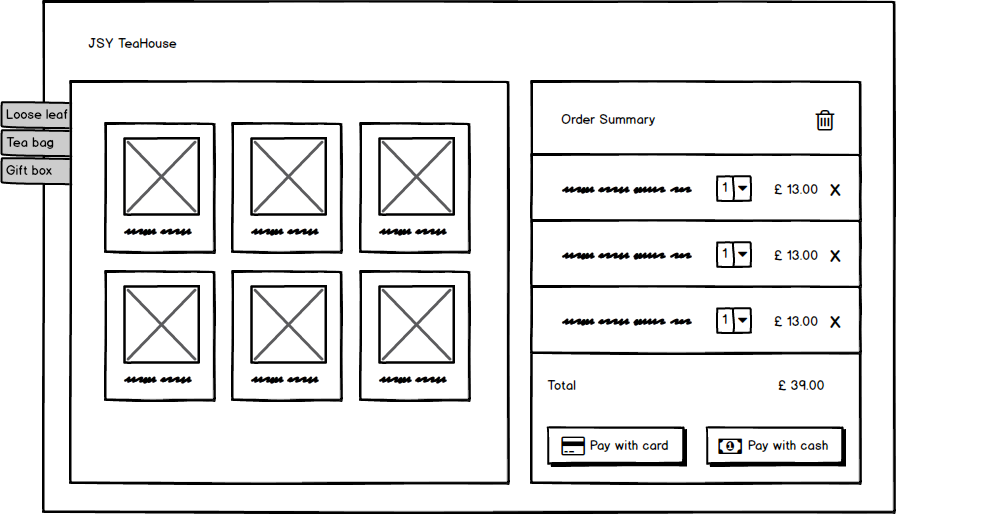
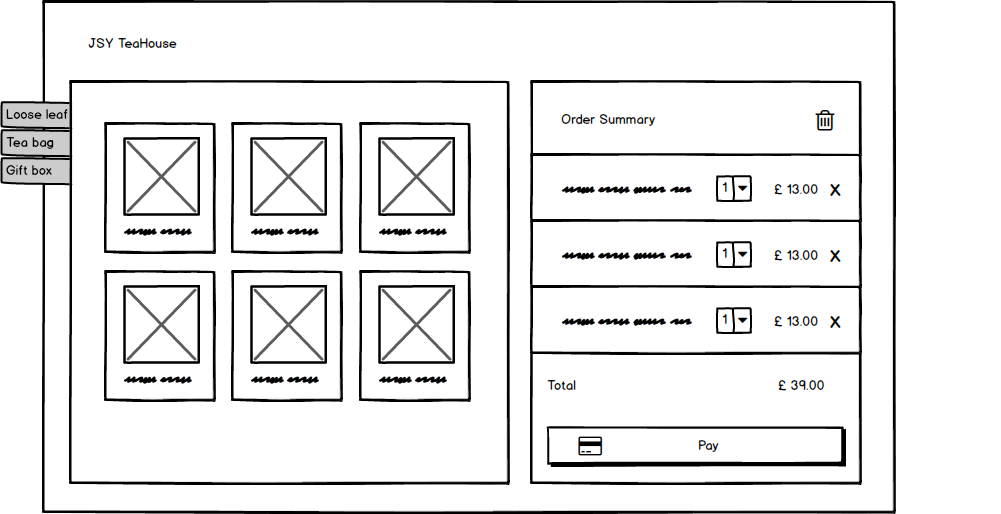
created menu_list+order_list

Changed region(s): [[0.5574, 0.8093, 0.8362, 0.9339]]

diff --git a/index.html b/index.html
@@ -4,21 +4,143 @@
 <head>
 	<meta charset="UTF-8">
 	<meta name="viewport" content="width=device-width, initial-scale=1.0">
-	<title>Document</title>
+	<title>JSY teahouse order system</title>
+	<script src="https://kit.fontawesome.com/e8a278aa48.js" crossorigin="anonymous"></script>
+	<link href="reset.css" rel="stylesheet">
+	<link href="style.css" rel="stylesheet">
 
 </head>
 
 <body>
 
 
-	<div>
-		<ul>
-			<li>Si Ji Chun</li>
+	<div class="wrapper">
+
+		<header class="header">
+			JSY TEAHOUSE
+		</header>
+
+		<div class="menu_container">
 
 
-		</ul>
+			<main class="menu_area">
 
 
+				<nav class="menu_nav">
+
+					<ul>
+						<li>Loose leaf</li>
+						<li>Tea bag</li>
+						<li>Gift Set</li>
+					</ul>
+
+
+				</nav>
+
+				<ul class="menu_list">
+					<li><img
+							src="https://shoplineimg.com/5cee0a99c4efc60001a5fe6b/5d6244e1622a563c02a2b3fd/800x.webp?source_format=png">
+						<span class="prod_name">Si Ji Chun</span><span class="prod_price">17.00</span></li>
+					<li><img
+							src="https://shoplineimg.com/5cee0a99c4efc60001a5fe6b/5d6244e1622a563c02a2b3fd/800x.webp?source_format=png">
+						<span class="prod_name">Si Ji Chun</span><span class="prod_price">17.00</span></li>
+					<li><img
+							src="https://shoplineimg.com/5cee0a99c4efc60001a5fe6b/5d6244e1622a563c02a2b3fd/800x.webp?source_format=png">
+						<span class="prod_name">Si Ji Chun</span><span class="prod_price">17.00</span></li>
+					<li><img
+							src="https://shoplineimg.com/5cee0a99c4efc60001a5fe6b/5d6244e1622a563c02a2b3fd/800x.webp?source_format=png">
+						<span class="prod_name">Si Ji Chun</span><span class="prod_price">17.00</span></li>
+					<li><img
+							src="https://shoplineimg.com/5cee0a99c4efc60001a5fe6b/5d6244e1622a563c02a2b3fd/800x.webp?source_format=png">
+						<span class="prod_name">Si Ji Chun</span><span class="prod_price">17.00</span></li>
+					<li><img
+							src="https://shoplineimg.com/5cee0a99c4efc60001a5fe6b/5d6244e1622a563c02a2b3fd/800x.webp?source_format=png">
+						<span class="prod_name">Si Ji Chun</span><span class="prod_price">17.00</span></li>
+					<li><img
+							src="https://shoplineimg.com/5cee0a99c4efc60001a5fe6b/5d6244e1622a563c02a2b3fd/800x.webp?source_format=png">
+						<span class="prod_name">Si Ji Chun</span><span class="prod_price">17.00</span></li>
+					<li><img
+							src="https://shoplineimg.com/5cee0a99c4efc60001a5fe6b/5d6244e1622a563c02a2b3fd/800x.webp?source_format=png">
+						<span class="prod_name">Si Ji Chun</span><span class="prod_price">17.00</span></li>
+					<li><img
+							src="https://shoplineimg.com/5cee0a99c4efc60001a5fe6b/5d6244e1622a563c02a2b3fd/800x.webp?source_format=png">
+						<span class="prod_name">Si Ji Chun</span><span class="prod_price">17.00</span></li>
+
+
+
+
+				</ul>
+
+			</main>
+
+
+
+		</div>
+
+		<div class="bill_container">
+			<header>
+				<h2>Order Summary </h2>
+				<span class="delete_icon"><i class="far fa-trash-alt" data-key="icon_trash"></i></span>
+			</header>
+
+			<ul class="order_list">
+				<li>
+					<span class="order_prod_name">Si Ji Chun</span>
+					<span class="order_quantity">
+						<label for="quantity"><select name="quantity" id="quantity">
+								<option value="1">1</option>
+								<option value="1">2</option>
+								<option value="1">3</option>
+								<option value="1">4</option>
+							</select></span>
+					<span class="order_price">17.00</span>
+					<input type="button" class="order_delete" value="×">
+				</li>
+
+				<li>
+					<span class="order_prod_name">Si Ji Chun</span>
+					<span class="order_quantity">
+						<label for="quantity"><select name="quantity" id="quantity">
+								<option value="1">1</option>
+								<option value="1">2</option>
+								<option value="1">3</option>
+								<option value="1">4</option>
+							</select></span>
+					<span class="order_price">17.00</span>
+					<input type="button" class="order_delete" value="×">
+				</li>
+
+
+				<li>
+					<span class="order_prod_name">Si Ji Chun</span>
+					<span class="order_quantity">
+						<label for="quantity"><select name="quantity" id="quantity">
+								<option value="1">1</option>
+								<option value="1">2</option>
+								<option value="1">3</option>
+								<option value="1">4</option>
+							</select></span>
+					<span class="order_price">17.00</span>
+					<input type="button" class="order_delete" value="×">
+				</li>
+
+
+
+
+			</ul>
+
+
+			<span class="total">
+				<span class="total_text">Total</span><span class="total_value">51.00</span>
+			</span>
+
+			<input type="button" id="pay_button" value="pay">
+
+
+		</div>
+
+
+	</div><!-- end of wrapper -->
 
 </body>
 

diff --git a/style.css b/style.css
@@ -1,0 +1,160 @@
+@import url("https://fonts.googleapis.com/css2?family=Alata&display=swap");
+
+body{
+    font-family: "Alata", sans-serif;
+    background-color: lightgray;
+}
+
+button:focus,
+input:focus {
+  outline: 0;
+}
+
+
+div.wrapper{
+    /* border:1px solid red; */
+    background-color: white;
+}
+
+
+div.wrapper{
+    width:900px;
+    margin:0 auto;
+    display: flex;
+    flex-wrap: wrap;
+}
+
+div.wrapper header{
+    width:100%;
+}
+
+div.wrapper .header{
+    padding:1rem;
+}
+
+div.menu_container{
+    width:65%;
+    border:1px solid blue;
+    display: flex;
+}
+
+div.bill_container{
+    width:30%;
+    /* border:1px solid magenta; */
+    margin-left: 5%;
+}
+
+
+
+ul.menu_list{
+    display: flex;
+    flex-wrap: wrap;
+    text-align: center;
+    justify-content: space-between;
+}
+
+div.menu_container .menu_nav{
+    border:1px solid green;
+}
+
+div.menu_container .menu_nav li{
+    display: inline-block;
+    padding: 1rem;
+}
+
+
+div.menu_container .menu_area{
+    width:90%;
+    border:1px solid cyan;
+    margin-left:2rem;
+    margin-bottom: 2rem;
+}
+
+
+ul.menu_list span.prod_name{
+    margin-top: 0.5rem;
+    margin-bottom: 0.3rem;
+}
+
+ul.menu_list span.prod_price{
+    margin-bottom: 1rem;
+    
+}
+
+ul.menu_list span{
+    display: block;
+}
+
+
+ul.menu_list li{
+    width:30%;
+}
+
+ul.menu_list li img{
+    width:100%;
+}
+
+
+/* bill_list */
+
+
+
+
+div.bill_container header{
+    display: flex;
+    justify-content: space-between;
+    padding: 1rem;
+}
+
+div.bill_container h2{
+    display: inline;
+}
+
+
+div.bill_container span.total{
+    margin:1rem;
+    display: flex;
+    justify-content: space-between;
+}
+
+div.bill_container span.total_value{
+    font-size: 1.5rem;
+}
+
+ul.order_list{
+    margin-bottom: 1rem;
+}
+
+ul.order_list li{
+    width:100%;
+    /* border:1px solid salmon; */
+    padding:1rem;
+    display: flex;
+    justify-content: space-between;
+    align-items: center;
+}
+
+ul.order_list li span.order_price{
+    padding-left:4rem;
+}
+
+ul.order_list li input.order_delete{
+    background-color: white;
+    border:none;
+    font-family: inherit;
+    font-size: 1.5rem;
+}
+
+
+div.bill_container input#pay_button{
+
+    font:inherit;
+    padding:1rem 1.5rem;
+    background-color: black;
+    color:white;
+
+    display: block;
+    position: absolute;
+    left:1rem;
+    bottom: 1rem;
+}

diff --git a/reset.css b/reset.css
@@ -1,0 +1,52 @@
+
+html, body, div, span, applet, object, iframe,
+h1, h2, h3, h4, h5, h6, p, blockquote, pre,
+a, abbr, acronym, address, big, cite, code,
+del, dfn, em, img, ins, kbd, q, s, samp,
+small, strike, strong, sub, sup, tt, var,
+b, u, i, center, input,
+dl, dt, dd, ol, ul, li,
+fieldset, form, label, legend,
+table, caption, tbody, tfoot, thead, tr, th, td,
+article, aside, canvas, details, embed, 
+figure, figcaption, footer, header, hgroup, 
+menu, nav, output, ruby, section, summary,
+time, mark, audio, video {
+	margin: 0;
+	padding: 0;
+	border: 0;
+	font-size: 100%;
+	font: inherit;
+	vertical-align: baseline;
+	position: relative;
+}
+
+
+*{
+    box-sizing: border-box;
+}
+
+
+/* HTML5 display-role reset for older browsers */
+article, aside, details, figcaption, figure, 
+footer, header, hgroup, menu, nav, section {
+	display: block;
+}
+body {
+	line-height: 1;
+}
+ol, ul {
+	list-style: none;
+}
+blockquote, q {
+	quotes: none;
+}
+blockquote:before, blockquote:after,
+q:before, q:after {
+	content: '';
+	content: none;
+}
+table {
+	border-collapse: collapse;
+	border-spacing: 0;
+}
